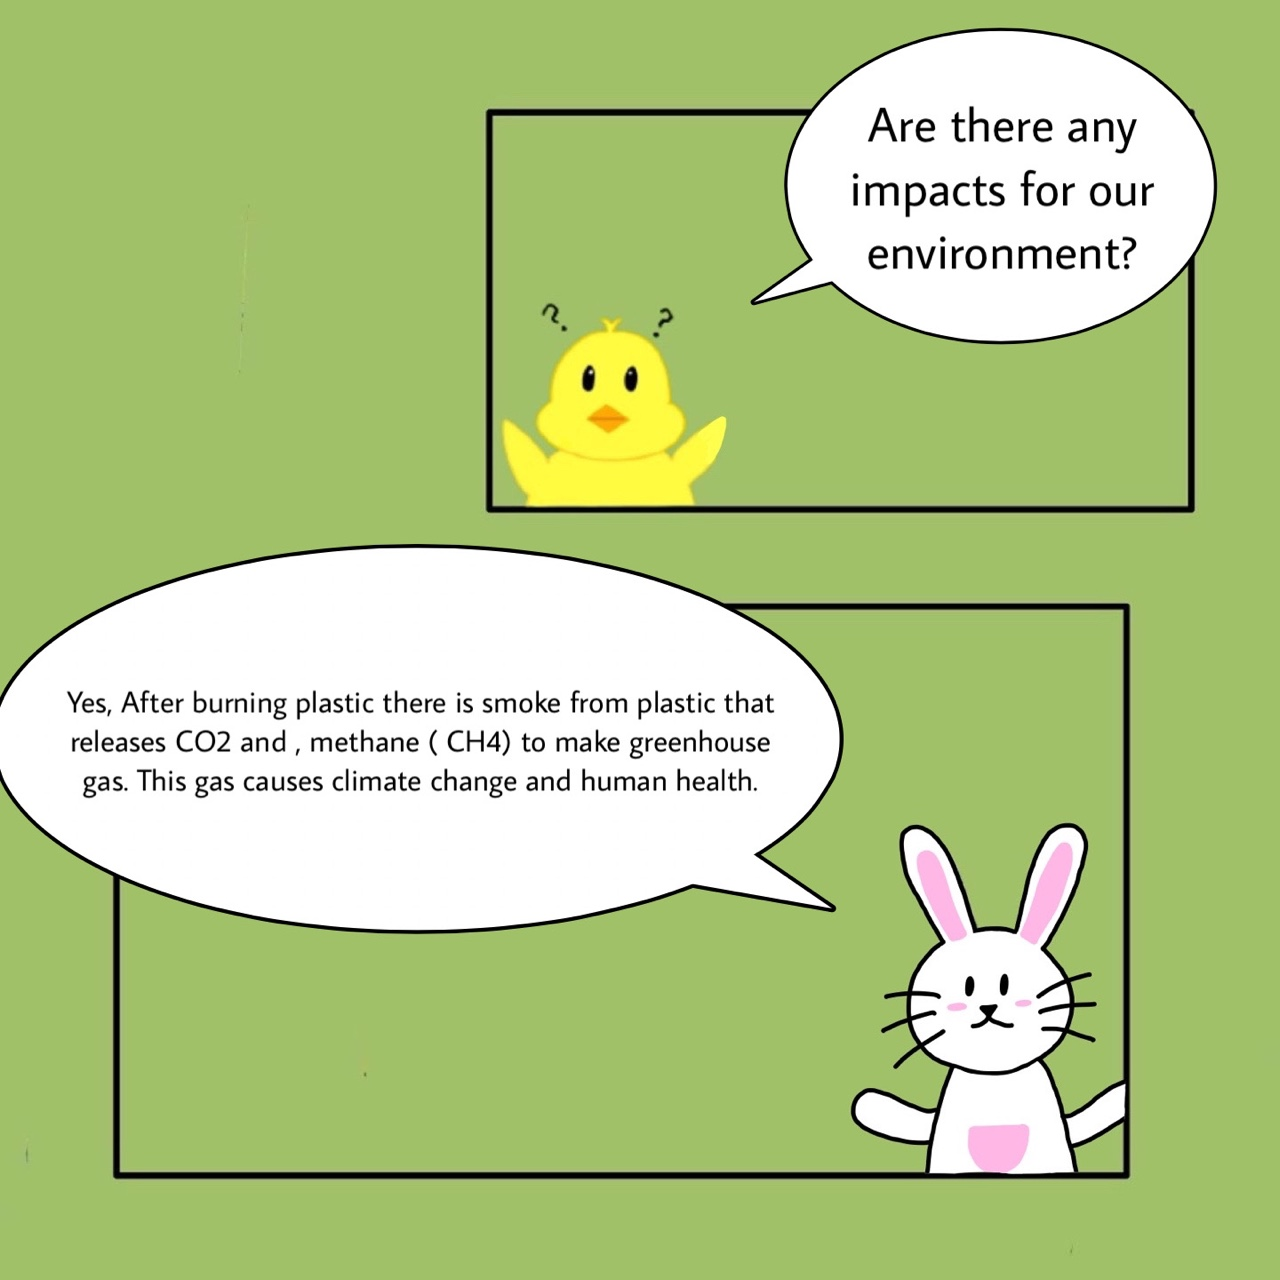
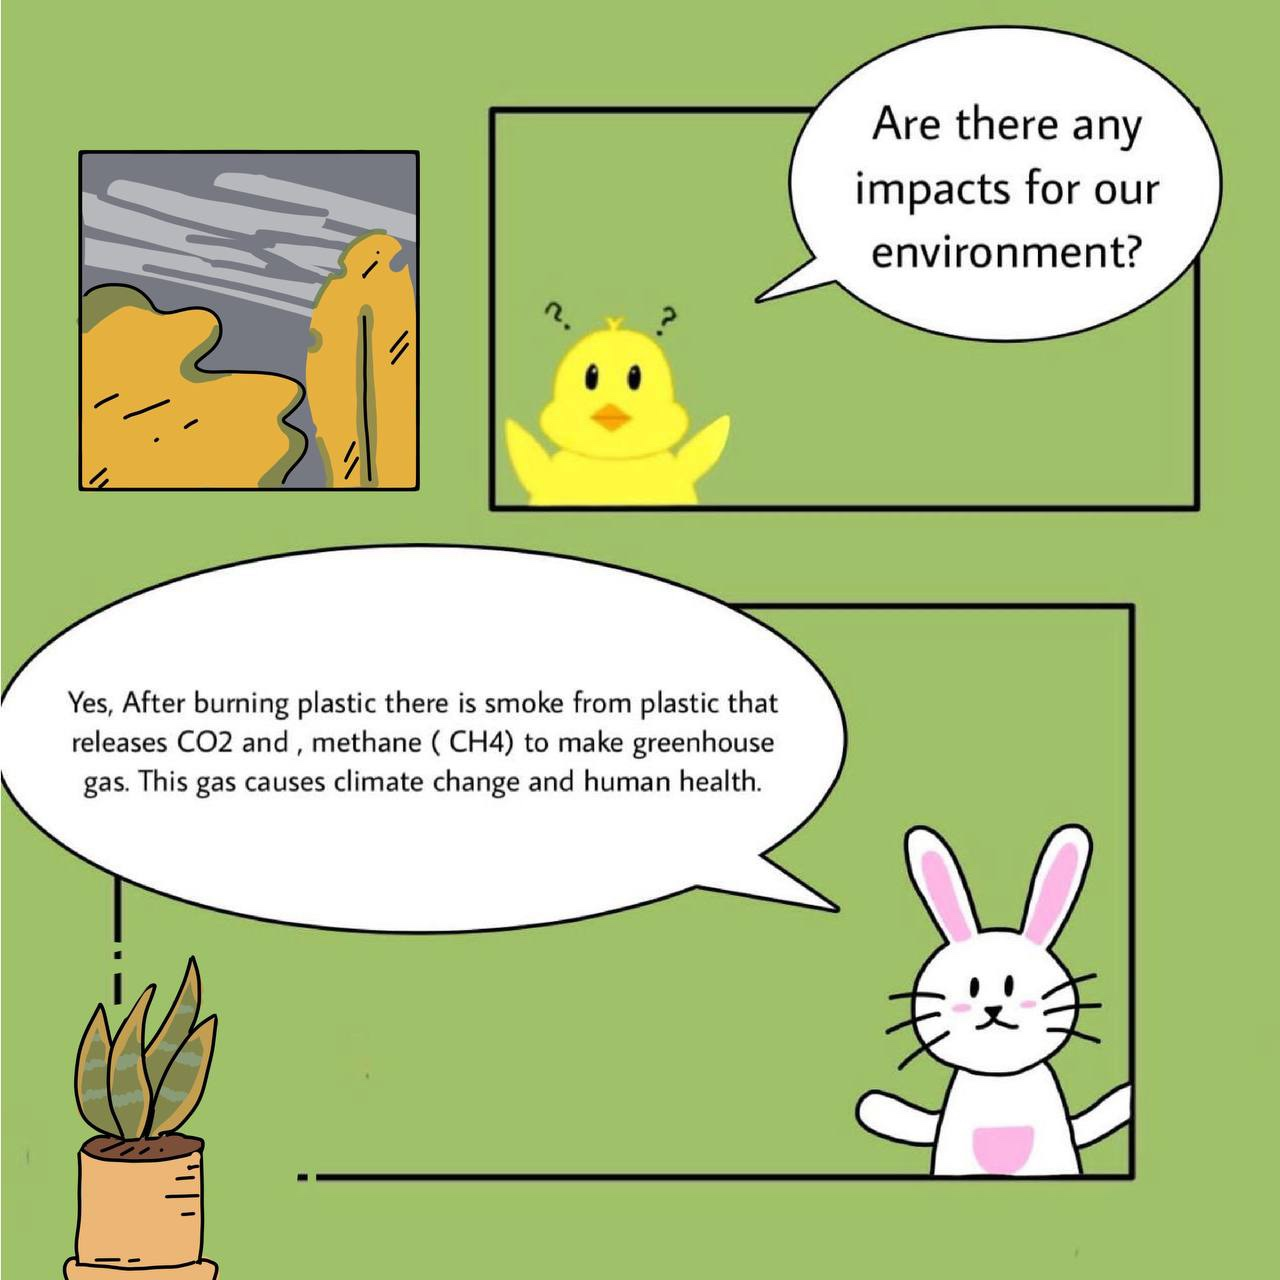
cartoon and info-log

diff --git a/lib/Cartoon/foodwaste.dart b/lib/Cartoon/foodwaste.dart
@@ -98,7 +98,7 @@ class Cartoon1 extends StatelessWidget {
                           offset: Offset(1,1)
                       )],
                     image: DecorationImage(
-                        image: AssetImage('assets/cartoon/foowaste(test).jpeg'),
+                        image: AssetImage('assets/cartoon/foodwaste/food1.jpg'),
                         fit: BoxFit.fill
                     )
                 ),
@@ -135,11 +135,139 @@ class Cartoon1 extends StatelessWidget {
 }
 
 class Cartoon2 extends StatelessWidget {
-  const Cartoon2({Key? key}) : super(key: key);
+  const Cartoon2({Key? key}) : super (key : key);
+
+  static Route<void> _fw3(BuildContext context, Object? arguments) {
+    return MaterialPageRoute<void>(
+        builder: (BuildContext context) => const Cartoon3()
+    );
+  }
 
   static Route<void> _Rd(BuildContext context, Object? arguments) {
     return MaterialPageRoute<void>(
-        builder: (BuildContext context) => const Read()
+        builder: (BuildContext context) => const MyStatefulWidget()
+    );
+  }
+
+  static Route<void> _fw1(BuildContext context, Object? arguments) {
+    return MaterialPageRoute<void>(
+        builder: (BuildContext context) => const Cartoon1()
+    );
+  }
+
+  @override
+  Widget build(BuildContext context) {
+    return Scaffold(
+      appBar: AppBar(
+        title: const
+        Text(
+          'Burend Plastic',
+          style: TextStyle(
+              color: Colors.green,
+              fontSize: 27,
+              fontWeight: FontWeight.bold,
+              fontFamily: 'itim'
+          ),
+        ),
+        centerTitle: true,
+        backgroundColor: Colors.transparent.withOpacity(0),
+        elevation: 0,
+        leading: IconButton(icon:
+        Icon(Icons.arrow_back_rounded,
+            size: 35, color: Colors.green),
+            onPressed: () {
+              Navigator.of(context).restorablePushAndRemoveUntil(
+                  _Rd,
+                  ModalRoute.withName('/fw2')
+              );
+            }
+        ),
+      ),
+      body: Column(mainAxisAlignment: MainAxisAlignment.start,
+        children: [
+          SizedBox(height: 50),
+          Row(mainAxisAlignment: MainAxisAlignment.center,
+              children: [
+                Container(
+                  height: 480,
+                  width: 390,
+                  decoration: BoxDecoration(
+                      borderRadius: BorderRadius.all(
+                          Radius.circular(13)),
+                      boxShadow: [
+                        BoxShadow(
+                            blurRadius: 3,
+                            color: Colors.black.withOpacity(0.3),
+                            offset: Offset(1,1)
+                        )],
+                      image: DecorationImage(
+                          image: AssetImage('assets/cartoon/foodwaste/food2.jpg'),
+                          fit: BoxFit.fill
+                      )
+                  ),
+                )
+              ]),
+          Column(mainAxisAlignment: MainAxisAlignment.start,
+              children: [
+                SizedBox(height: 15),
+                Row(children: [
+                  Expanded(flex: 1,
+                      child: Ink(
+                        decoration: const ShapeDecoration(
+                          color: Colors.redAccent,
+                          shape: CircleBorder(),
+                        ),
+                        child: IconButton(
+                          icon: const Icon(Icons.arrow_left,size: 30),
+                          color: Colors.white,
+                          onPressed: () {
+                            Navigator.of(context).restorablePushAndRemoveUntil(
+                                _fw1,
+                                ModalRoute.withName('/fw2')
+                            );
+                          },
+                        ),
+                      )
+                  ),
+                  Expanded(flex: 3, child: Container(color: Colors.transparent.withOpacity(0))),
+                  Expanded(flex: 1,
+                      child: Ink(
+                        decoration: const ShapeDecoration(
+                          color: Colors.blueAccent,
+                          shape: CircleBorder(),
+                        ),
+                        child: IconButton(
+                          icon: const Icon(Icons.arrow_right,size: 30),
+                          color: Colors.white,
+                          onPressed: () {
+                            Navigator.of(context).restorablePushAndRemoveUntil(
+                                _fw3,
+                                ModalRoute.withName('/fw2')
+                            );
+                          },
+                        ),
+                      )
+                  ),
+                ])
+              ])
+        ],
+      ),
+    );
+  }
+}
+
+class Cartoon3 extends StatelessWidget {
+  const Cartoon3({Key? key}) : super(key: key);
+
+  static Route<void> _fw2(BuildContext context, Object? arguments) {
+    return MaterialPageRoute<void>(
+      builder: (BuildContext context) => const Cartoon2()
+    );
+  }
+
+  static Route<void> _Rd(BuildContext context, Object? arguments) {
+    return MaterialPageRoute<void>(
+        builder: (BuildContext context) => const MyStatefulWidget()
     );
   }
 
@@ -172,7 +300,7 @@ class Cartoon2 extends StatelessWidget {
 
               Navigator.of(context).restorablePushAndRemoveUntil(
                 _Rd,
-                ModalRoute.withName('/fw2')
+                ModalRoute.withName('/fw3')
               );
             }
         ),
@@ -195,7 +323,7 @@ class Cartoon2 extends StatelessWidget {
                             offset: Offset(1,1)
                         )],
                       image: DecorationImage(
-                          image: AssetImage('assets/cartoon/foowaste(test).jpeg'),
+                          image: AssetImage('assets/cartoon/foodwaste/food3.jpg'),
                           fit: BoxFit.fill
                       )
                   ),
@@ -215,7 +343,10 @@ class Cartoon2 extends StatelessWidget {
                           icon: const Icon(Icons.arrow_left,size: 30),
                           color: Colors.white,
                           onPressed: () {
-                            Navigator.pop(context);
+                            Navigator.of(context).restorablePushAndRemoveUntil(
+                              _fw2,
+                              ModalRoute.withName('/fw3')
+                            );
                           },
                         ),
                       )
@@ -233,7 +364,7 @@ class Cartoon2 extends StatelessWidget {
                           onPressed: () {
                             Navigator.of(context).restorablePushAndRemoveUntil(
                               _Rd,
-                              ModalRoute.withName('/fw2')
+                              ModalRoute.withName('/fw3')
                             );
                           },
                         ),

diff --git a/lib/Cartoon/cuttingtree.dart b/lib/Cartoon/cuttingtree.dart
@@ -98,7 +98,7 @@ class Cartoon1 extends StatelessWidget {
                           offset: Offset(1,1)
                       )],
                     image: DecorationImage(
-                        image: AssetImage('assets/cartoon/cuttingtree/cutting1.jpg'),
+                        image: AssetImage('assets/cartoon/cuttingtree/tree1.jpg'),
                         fit: BoxFit.fill
                     )
                 ),
@@ -202,7 +202,7 @@ class Cartoon2 extends StatelessWidget {
                             offset: Offset(1,1)
                         )],
                       image: DecorationImage(
-                          image: AssetImage('assets/cartoon/cuttingtree/cutting2.jpg'),
+                          image: AssetImage('assets/cartoon/cuttingtree/tree2.jpg'),
                           fit: BoxFit.fill
                       )
                   ),
@@ -306,7 +306,7 @@ class Cartoon3 extends StatelessWidget {
                             offset: Offset(1,1)
                         )],
                       image: DecorationImage(
-                          image: AssetImage('assets/cartoon/cuttingtree/cutting3.jpg'),
+                          image: AssetImage('assets/cartoon/cuttingtree/tree3.jpg'),
                           fit: BoxFit.fill
                       )
                   ),

diff --git a/lib/info.dart b/lib/info.dart
@@ -44,7 +44,7 @@ class _InfoState extends State<Info> {
             mainAxisAlignment: MainAxisAlignment.start,
             children: <Widget>[
               SizedBox(height: 10,),
-              Image.asset('assets/images/trash.jpeg', height: 130,),
+              Image.asset('android/app/src/main/res/drawable-xxxhdpi/splash.png', height: 130,),
               SizedBox(height: 10,),
               Text(
                 'Ecological',
